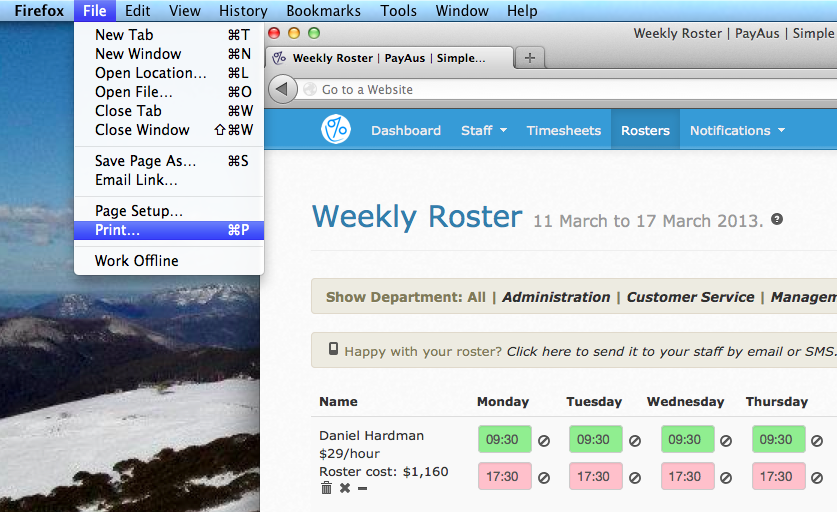
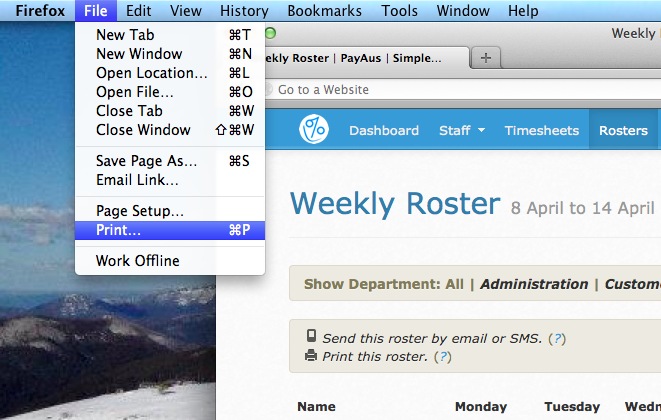
update roster docs

diff --git a/_posts/rosters/2013-02-24-sms.md b/_posts/rosters/2013-02-24-sms.md
@@ -1,6 +1,6 @@
 ---
 layout: guide
-title: Sending Rosters by SMS
+title: Sending Rosters by Email or SMS
 categories: ['rosters']
 sort: 5
 ---
@@ -11,15 +11,21 @@ PayAus can do this for you. Just click the link at the top of any roster.
 
 ![Click the link to send a roster by SMS](/img/rosters/send_by_sms_prompt.png)
 
-### Sending Rosters by SMS
+### Sending Rosters by Email or SMS
 
 Sending rosters by SMS is a simple process. Usually you won't need to configure anything &mdash; just click send. By default, rosters will be sent to all staff who have a schedule entered in the relevant roster, and who have a phone number in PayAus. To make things even easier, PayAus even shows you a preview of the message that will be sent on the right hand side of the screen when you hover over someone's name.
 
 ![Sending rosters by SMS](/img/rosters/send_roster_by_sms.png)
 
-Tick the checkboxes next to the names of the staff you'd like to send a roster too, then click *Send Notifications* when you're ready. Each of those staff will get sent a message containing their roster.
+Tick the checkboxes next to the names of the staff you'd like to send a roster too. Click *Send Text Messages* to send rosters by SMS, or *Send Emails* to send rosters by email. Each of those staff will get sent a message containing their roster.
 
 SMS messages are charged at a standard rate of 25 cents per message. This is included in your periodic PayAus bill.
+
+### Sending Individaul Rosters
+
+Only want to send one person their shifts? Click the phone icon next to their roster.
+
+![Sending an individual their roster](/img/rosters/individual_roster.png)
 
 ### Troubleshooting
 

diff --git a/_posts/rosters/2013-03-13-printing.md b/_posts/rosters/2013-03-13-printing.md
@@ -18,6 +18,10 @@ The location of the `Print` option will depend on your web browser. These guides
 * [Internet Explorer](http://windows.microsoft.com/en-us/windows7/printing-webpages-frequently-asked-questions)
 * [Safari (on a Mac)](http://support.apple.com/kb/PH11878)
 
+Alternatively, click the prompt on the roster page.
+
+![Print roster prompt](/img/rosters/print_prompt.png)
+
 When you choose to print a roster, it is formatted to bring only the information you need to the forefront. All irrelevant information - such as the controls you use to actually design the roster - are hidden, so you can focus on what's important.
 
 ![A print preview in Chrome](/img/rosters/print_chrome.png)

diff --git a/_posts/staff/2013-02-06-importing.md b/_posts/staff/2013-02-06-importing.md
@@ -92,6 +92,6 @@ When the import is complete you'll see your new list of staff. If there were any
 <div class="alert alert-block">
 	<i class="icon-wrench"> </i>
 	<p>
-		Don't use <b>MYOB</b> or <b>Wage Easy</b>? We're building importing systems for other accounting packages too! <a href="http://www.payaus.com/quotes/new?from=help-myob">Let us know</a> what you use.
+		Don't use <b>MYOB</b> or <b>Wage Easy</b>? We're building importing systems for other accounting packages too! <a href="http://www.payaus.com/contact?from=help-myob">Let us know</a> what you use.
 	</p>
 </div>
